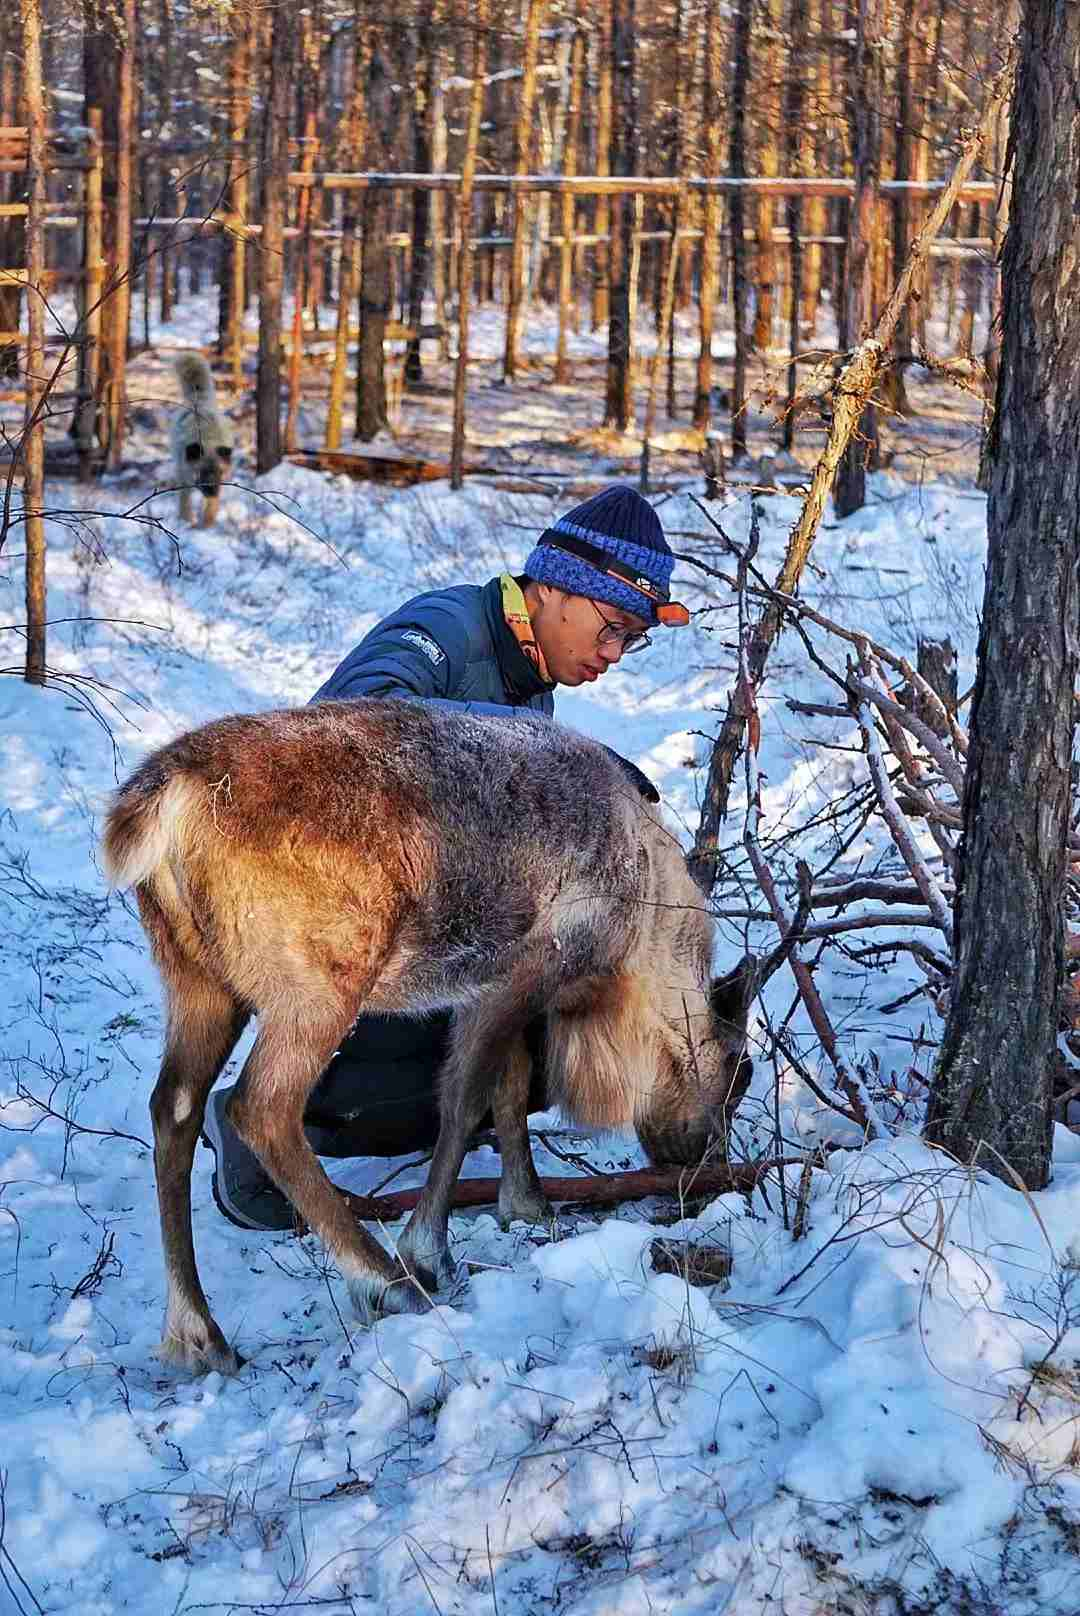
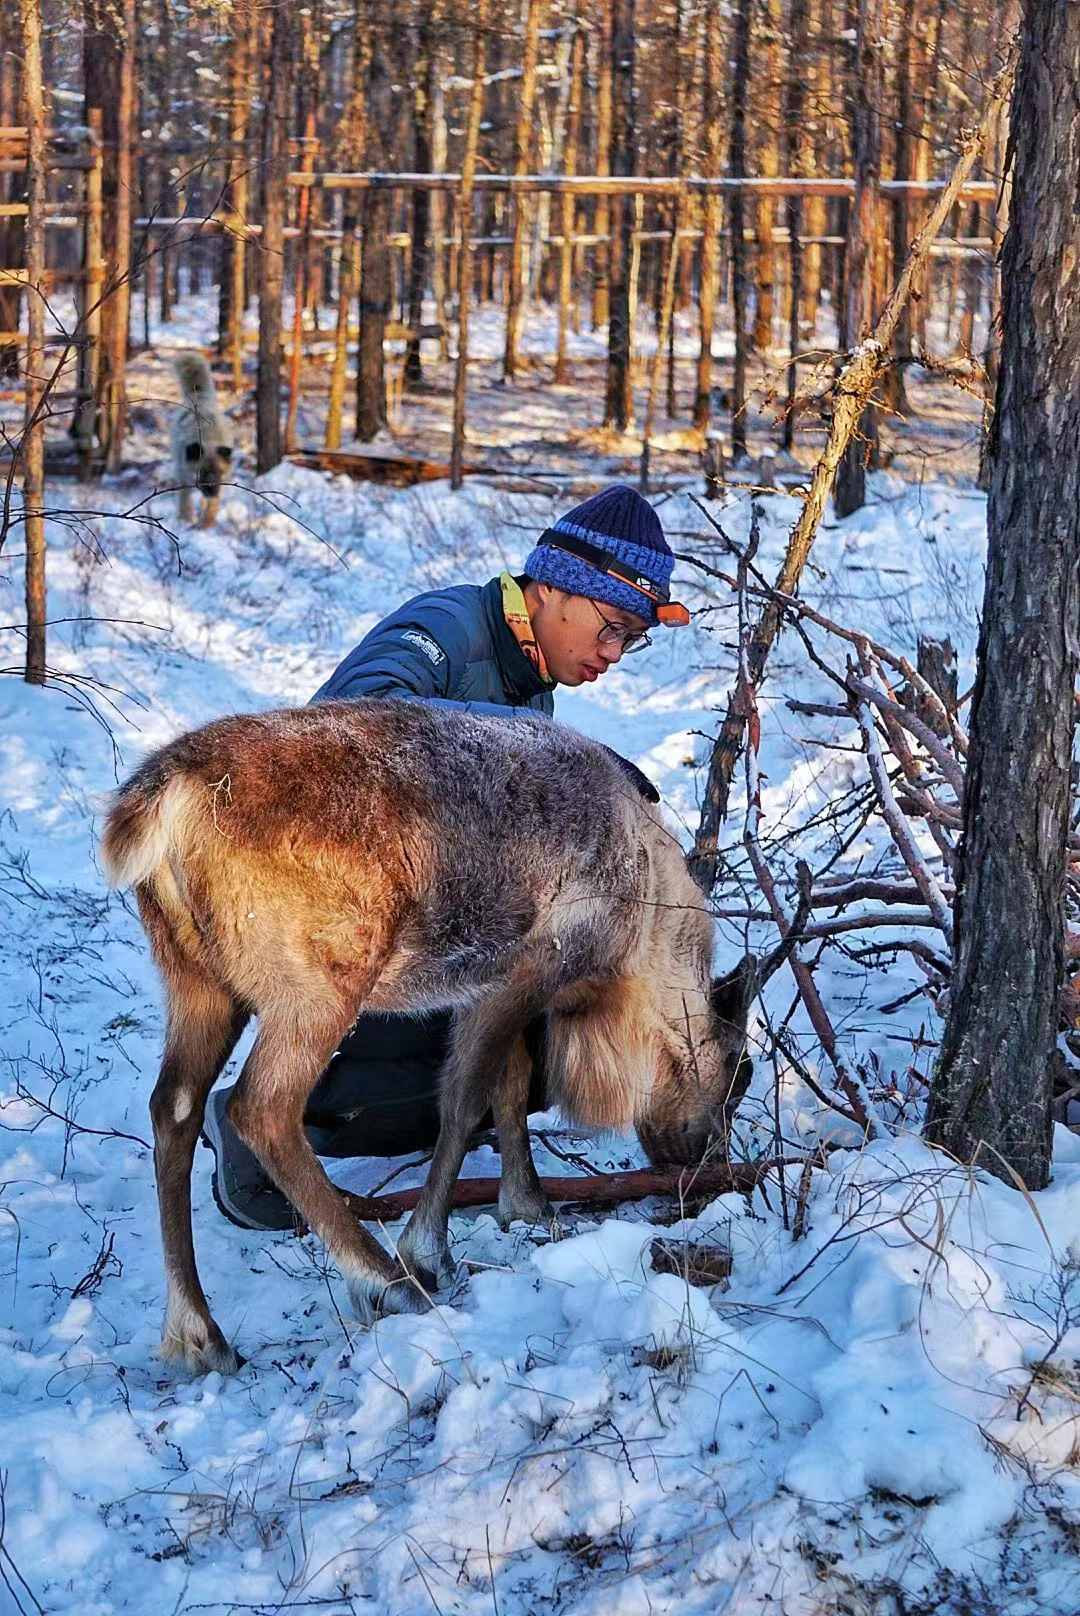
Fix res mistake

diff --git a/album/index.html b/album/index.html
@@ -25,52 +25,52 @@
 				<!-- Main -->
 					<div id="main">
 						<article class="thumb">
-							<a href="img_low_res/Top.jpg" class="image"><img src="images/Top.jpg" alt="" /></a>
+							<a href="images/Top.jpg" class="image"><img src="img_low_res/Top.jpg" alt="" /></a>
 							<h2>Mount Siguniang</h2>
 							<p>Get to the top of Mount Si Guniang (5025m). <i>Mar 2021</i></p>
 						</article>
 						<article class="thumb">
-							<a href="img_low_res/SOW.jpg" class="image"><img src="images/SOW.jpg" alt="" /></a>
+							<a href="images/SOW.jpg" class="image"><img src="img_low_res/SOW.jpg" alt="" /></a>
 							<h2>Swiss Orienteering Week</h2>
 							<p>Attending Swiss Orienteering Week 2023. <i>July 2023</i></p>
 						</article>
 						<article class="thumb">
-							<a href="img_low_res/Laussane.jpg" class="image"><img src="images/Laussane.jpg" alt="" /></a>
+							<a href="images/Laussane.jpg" class="image"><img src="img_low_res/Laussane.jpg" alt="" /></a>
 							<h2>Laussane</h2>
 							<p>Citywalk in Laussane <i>July 2023</i></p>
 						</article>
 						<article class="thumb">
-							<a href="img_low_res/Wulanbutong.jpg" class="image"><img src="images/Wulanbutong.jpg" alt="" /></a>
+							<a href="images/Wulanbutong.jpg" class="image"><img src="img_low_res/Wulanbutong.jpg" alt="" /></a>
 							<h2>Loneliest Tree</h2>
 							<p>Searching for the loneliest tree on the grasslands of Inner Mongolia. Oct 2023</p>
 						</article>
 						<article class="thumb">
-							<a href="img_low_res/Wucai.jpg" class="image"><img src="images/Wucai.jpg" alt="" /></a>
+							<a href="images/Wucai.jpg" class="image"><img src="img_low_res/Wucai.jpg" alt="" /></a>
 							<h2>Red Leaves</h2>
 							<p>Hiking in the season of red leaves. Oct 2023</p>
 						</article>
 						<article class="thumb">
-							<a href="img_low_res/TMB.jpg" class="image"><img src="images/TMB.jpg" alt="" /></a>
+							<a href="images/TMB.jpg" class="image"><img src="img_low_res/TMB.jpg" alt="" /></a>
 							<h2>mountains</h2>
 							<p>Hiking Tour du Mont Blanc. July 2023</p>
 						</article>
 						<article class="thumb">
-							<a href="img_low_res/reindeer.jpg" class="image"><img src="images/reindeer.jpg" alt="" /></a>
+							<a href="images/reindeer.jpg" class="image"><img src="img_low_res/reindeer.jpg" alt="" /></a>
 							<h2>Reindeer</h2>
 							<p>Finding reindeer in the northernmost taiga of China. Jan 2024</p>
 						</article>
 						<article class="thumb">
-							<a href="img_low_res/MLCCIM.png" class="image"><img src="images/MLCCIM.png" alt="" /></a>
+							<a href="images/MLCCIM.png" class="image"><img src="img_low_res/MLCCIM.png" alt="" /></a>
 							<h2>Oral Presentation</h2>
 							<p>Presenting my first paper at MLCCIM 2022. Aug 2022</p>
 						</article>
 						<article class="thumb">
-							<a href="img_low_res/CODATA.jpg" class="image"><img src="images/CODATA.jpg" alt="" /></a>
+							<a href="images/CODATA.jpg" class="image"><img src="img_low_res/CODATA.jpg" alt="" /></a>
 							<h2>Poster Presentation</h2>
 							<p>Presenting my research at the China Scientific Data Conference. Apr 2023</p>
 						</article>
 						<article class="thumb">
-							<a href="img_low_res/Gi4DM.jpg" class="image"><img src="images/Gi4DM.jpg" alt="" /></a>
+							<a href="images/Gi4DM.jpg" class="image"><img src="img_low_res/Gi4DM.jpg" alt="" /></a>
 							<h2>Gi4DM</h2>
 							<p>Attending an International Conference on Geo-information and Disaster Management. Nov 2022</p>
 						</article>

diff --git a/album/low_res.py b/album/low_res.py
@@ -6,7 +6,7 @@ src_dir = './images'  # Replace with your actual path
 target_dir = './img_low_res'  # Replace with your actual path
 
 # Function to compress images
-def compress_images(src_folder, target_folder, quality=20):
+def compress_images(src_folder, target_folder, quality=40):
     # Get all the image files in the source folder
     for image_name in os.listdir(src_folder):
         # The full file path
